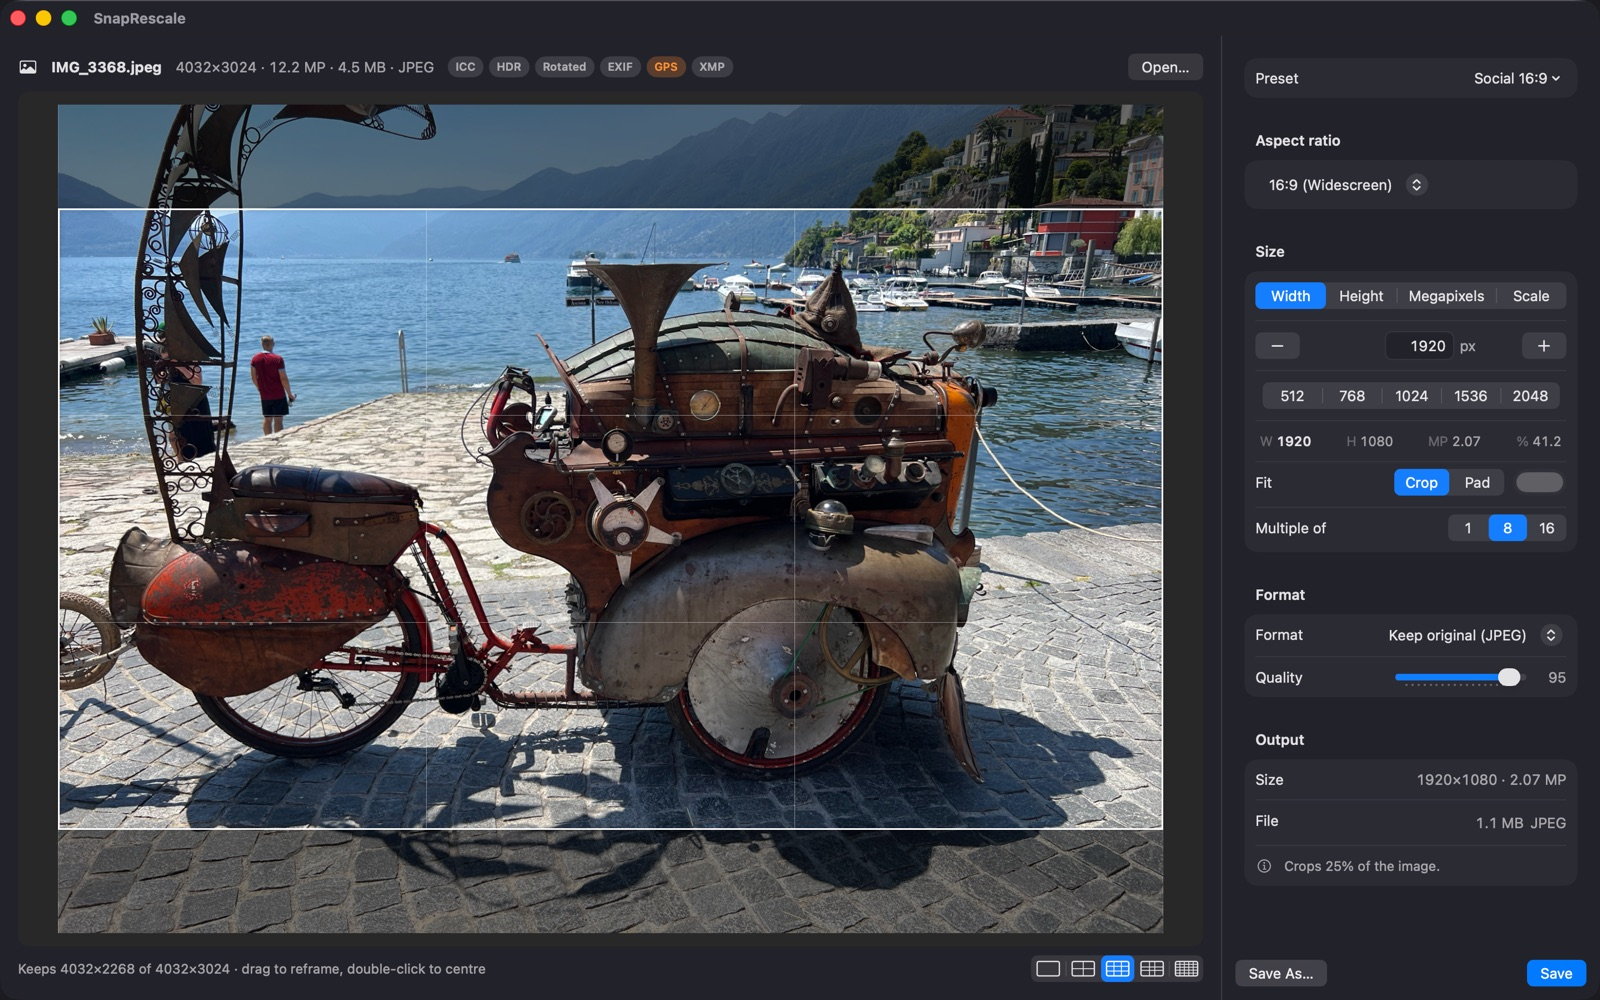
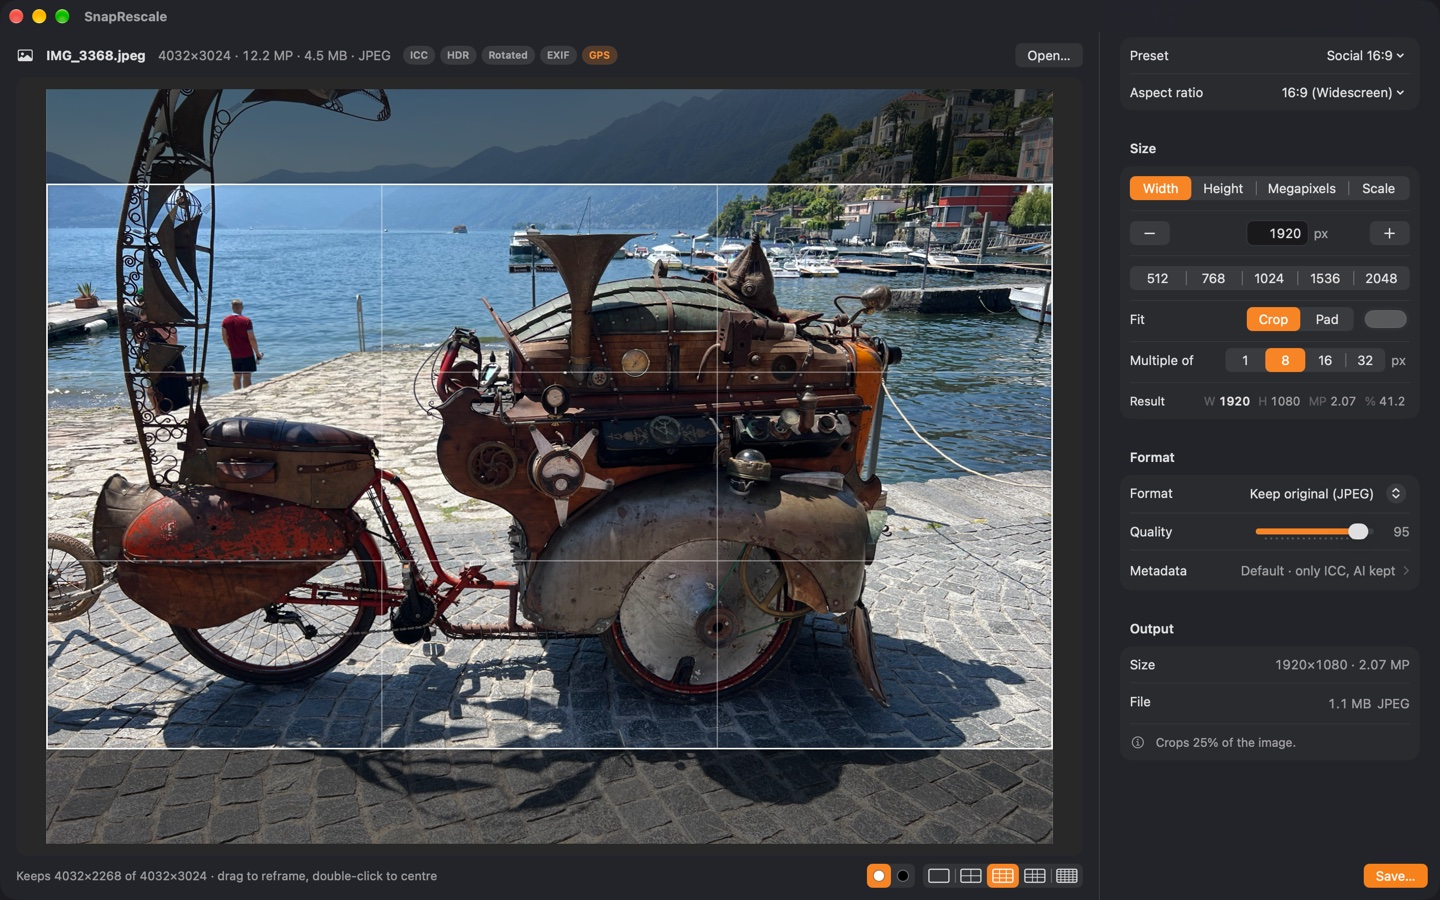
Release 1.2 (4): README, changelog, store copy, privacy and status (#64)
README for 1.2 (multiples 8/16/32, metadata step, auto-quit only when
launched for an image, new screenshot, v1.2-build4 DMG). CHANGELOG
section 1.2 (build 4). PRIVACY says saved files carry the metadata kept.
APP-STORE review notes, screenshot set and accessibility step;
RELEASING checksum step, release order and the 2026-10-20 VM row
(all 11 checks pass on 1.2 (4)). ROADMAP, PRD and the Feedback draft
mark 1.2 released.

diff --git a/README.md b/README.md
@@ -1,6 +1,6 @@
 # SnapRescale
 
-**Resize to any ratio, snapped to multiples of 8 and 16.**
+**Resize to any ratio, snapped to multiples of 8, 16 or 32.**
 
 SnapRescale is a free, native macOS utility for resizing one image to the
 dimensions your workflow needs. Choose an aspect ratio and set width, height,
@@ -8,8 +8,10 @@ megapixels or scale. Snap dimensions to multiples of 8, 16 or 32 for AI image
 workflows, or use ordinary pixel dimensions.
 
 Preview the crop before saving, drag to adjust the framing, or pad with a
-chosen colour. Save useful settings as presets. Images are processed locally,
-without accounts or uploads.
+chosen colour. Inspect the image's metadata and choose what stays with the
+resized file; an embedded ComfyUI workflow survives a PNG-to-PNG resize. Save
+useful settings as presets. Images are processed locally, without accounts or
+uploads.
 
 ![SnapRescale with a 16:9 crop preview](docs/screenshots/crop-16x9.jpg)
 
@@ -17,7 +19,7 @@ without accounts or uploads.
 
 - macOS 26 or later, Apple Silicon (that is what has been built and tested).
 - **Mac App Store:** [Download SnapRescale](https://apps.apple.com/app/snaprescale/id6809174592).
-- **Direct download:** [Download SnapRescale 1.1 (DMG)](https://github.com/phierru/SnapRescale/releases/download/v1.1-build3/SnapRescale-1.1.dmg),
+- **Direct download:** [Download SnapRescale 1.2 (DMG)](https://github.com/phierru/SnapRescale/releases/download/v1.2-build4/SnapRescale-1.2.dmg),
   signed with Developer ID and notarised by Apple. Open the DMG and drag
   SnapRescale to Applications. See [GitHub releases](https://github.com/phierru/SnapRescale/releases)
   for release notes and checksums.
@@ -26,35 +28,49 @@ without accounts or uploads.
 ## Using it
 
 1. **Open an image.** Right-click it in Finder → *Open With → SnapRescale* (or
-   *Services → Resize with SnapRescale*). Opened that way, the app quits after
-   saving. Or open SnapRescale from Applications, then drop an image on the
-   window or press ⌘O; it then stays open.
+   *Services → Resize with SnapRescale*). If that launches SnapRescale, it quits
+   after saving and the button reads *Save & Quit…* (*Save & Quit* when saving
+   without asking). Or open SnapRescale from
+   Applications, then drop an image on the window or press ⌘O; it then stays
+   open.
 2. **Choose the size.** Pick an aspect ratio — *Original* keeps the image's own
    ratio; the picker also offers 1:1, 2:3, 3:2, 3:4, 4:3, 9:16, 16:9 and 21:9 —
    and one number: width, height, megapixels or scale. The other three follow.
-   *Multiple of 8/16* rounds onto that lattice and says what it changed;
+   *Multiple of 8, 16 or 32* rounds onto that lattice and says what it changed;
    *Multiple of 1* means no snapping. The preview shows the crop; drag the frame
    to reframe, or switch to *Pad*.
-3. **Save.** ⌘S opens the save panel, pre-filled with `name_WxH`. Settings can
+3. **Choose the metadata.** Click a badge next to the file name, or the
+   *Metadata* row in the sidebar (⌥⌘I), to open the inspector. EXIF, GPS,
+   IPTC, XMP and the AI workflow each have a *Keep · Strip* switch, and the
+   colour profile has *Keep · sRGB · Strip*; the default strips EXIF, GPS,
+   IPTC and XMP and keeps the colour profile and the AI workflow.
+4. **Save.** ⌘S opens the save panel, pre-filled with `name_WxH`. Settings can
    make ⌘S save beside the original without asking (it asks for each folder
    once). The file size shown before saving is a real encode.
 
 Brief in-app help is on ⌘?; the same text is in [docs/HELP.md](docs/HELP.md).
 Version history is in the [changelog](CHANGELOG.md).
 
-## What it does and doesn't do (1.0)
+## What it does and doesn't do (1.2)
 
 - One image at a time. Output formats: JPEG, PNG, HEIC, TIFF, or the source's
   own format when it is one of those.
-- **Output is 8-bit sRGB with metadata stripped.** EXIF, GPS, XMP and AI
-  workflow data are not carried over — a resized ComfyUI PNG no longer reopens
-  its generation graph. Orientation is baked in. The badges next to the file
-  name show what was *detected* in the source, not what will be preserved.
-- Animated images use their first frame.
-- Presets store size and export settings as plain JSON you can edit and share.
-- Planned next, in order: metadata keep/strip controls and workflow
-  carry-over, multiple windows, WebP and encoder options. See
-  [docs/ROADMAP.md](docs/ROADMAP.md).
+- **Metadata is kept or stripped per section, never edited.** By default EXIF,
+  GPS, IPTC and XMP are stripped, and the colour profile and AI workflow data
+  are kept, prompts included: review them before sharing. A resized ComfyUI
+  PNG saved as PNG still opens its workflow in ComfyUI; A1111-style parameters
+  travel in the EXIF user comment of JPEG, HEIC and TIFF. C2PA content
+  credentials are always stripped, and the embedded EXIF thumbnail is never
+  written. Metadata over the per-image read limits is left out, and the
+  inspector says so. Copy and export work whatever the switches say.
+- **Colour:** the source's profile is kept, converted to sRGB or left out.
+  Sources deeper than 8 bits give 16-bit PNG and TIFF, and 10-bit HEIC. CMYK
+  sources are converted to sRGB, and HDR gain maps are not written.
+- Orientation is baked into the pixels. Animated images use their first frame.
+- Presets store size, export and metadata settings as plain JSON you can edit
+  and share.
+- Planned next: WebP and per-format encoder options, then multiple windows.
+  See [docs/ROADMAP.md](docs/ROADMAP.md) and the [changelog](CHANGELOG.md).
 
 ## Building
 
@@ -79,8 +95,8 @@ fallback. Release and App Store steps are in [docs/RELEASING.md](docs/RELEASING.
 
 ### Layout
 
-- `RescaleKit/` — the engine: solver, image pipeline, metadata detection,
-  presets. No UI. A throwaway `rescale` CLI exercises it (`--write` writes a
+- `RescaleKit/` — the engine: solver, image pipeline, metadata reading and
+  writing, presets. No UI. A throwaway `rescale` CLI exercises it (`--write` writes a
   file; without it, it only prints the solve).
 - `SnapRescale/` — the SwiftUI app.
 - `prototype/` — the Python model of the solver the Swift port is checked

diff --git a/docs/APP-STORE.md b/docs/APP-STORE.md
@@ -1,7 +1,7 @@
-# App Store listing — draft
+# App Store listing
 
-Everything App Store Connect asks for, ready to paste. This is the draft of
-record for the next release, version 1.2: the
+Everything App Store Connect asks for, ready to paste. This is the copy
+submitted for version 1.2: the
 [copy proposal of 2026-10-03](app-store-release-copy-2026-10-03.md) with the
 owner's corrections (#63). The text live for 1.1, which this submission
 replaces, is recorded at the end.
@@ -124,8 +124,9 @@ launched from Applications, it stays open. The app is sandboxed; saving goes
 through the save panel by default. The "save next to the original without
 asking" setting asks for folder access once per folder via the standard open
 panel (security-scoped bookmark); an allowed folder also covers the folders
-inside it. The metadata inspector's Export… and Export
-All… also write only through the save panel.
+inside it. The metadata inspector (⌥⌘I) also exports only through the save
+panel: Export All… in its ⋯ menu, and the Export… (share) icon on the AI
+workflow section of an image that carries one.
 
 ## Screenshots
 
@@ -133,18 +134,29 @@ Required sizes for Mac: 1280×800, 1440×900, 2560×1600 or 2880×1800, opaque.
 Recipe (Retina display, so 1440×900 points capture at 2880×1800 pixels):
 
 ```sh
-open -n -a build/xcode/SnapRescale.app --args --window 1440x900 --preset "Social 16:9"
-sleep 4; open -a build/xcode/SnapRescale.app photo.jpg      # opened after launch → stays open, "Save…" (not "Save & Quit…")
-# add --inspector to the first line for the shots with the metadata inspector open
+open -n -a build/xcode/SnapRescale.app --args -ApplePersistenceIgnoreState YES \
+  -saveNextToOriginalWithoutAsking NO --window 1440x900 <shot flags>
+sleep 4.5; open -a build/xcode/SnapRescale.app photo.jpg   # opened after launch → stays open, "Save…" (not "Save & Quit…")
 screencapture -l<window id> -x -o raw.png                    # window id from CGWindowList (owner SnapRescale)
 swiftc -O -o flatten Scripts/flatten-screenshot.swift && ./flatten raw.png shot.png 2880 1800   # opaque, centred
 ```
 
-Which shots, and whether they carry captions, is decided at release (#64).
-Start from the five-shot brief in the
-[storefront review](storefront-review-2026-10-03.md#proposed-screenshot-sequence),
-with the corrections in its Owner comment; #64 names the photos for the EXIF
-and GPS, IPTC and XMP, and AI workflow shots.
+The `-key value` arguments override a setting for one launch and write
+nothing; `-compositionGrid thirds -compositionGridDark NO -defaultMultiple 8
+-defaultQuality 0.95` pin the grid and defaults whatever the stored settings
+say. Move the pointer off the window before capturing.
+
+The 1.2 set (owner decision 2026-10-20: plain window captures, no captions;
+dark appearance):
+
+| # | Photo | Flags | In the UI |
+|---|---|---|---|
+| 1 | `IMG_3368.jpeg` (Ascona) | `--preset "Social 16:9"` | — |
+| 2 | `IMG_2946.jpeg` (real GPS, accepted) | `--inspector` | — |
+| 3 | Replicate PNG (IPTC, XMP, C2PA) | `--inspector --scale 50` | open IPTC and XMP *More* |
+| 4 | `ComfyUI_00006_.png` | `--inspector --height 512 --multiple 16` | — |
+| 5 | `IMG_3368.jpeg` | `--aspect 16:9 --width 1920 --multiple 8 --fit pad` | pad colour #2B5C66 |
+| 6 | Replicate PNG | `--scale 50` | Format HEIC, Quality 80 |
 
 ## Status
 
@@ -152,7 +164,8 @@ and GPS, IPTC and XMP, and AI workflow shots.
 commit 110e688); 1.0 approved, Ready for Distribution. 1.1 (3) uploaded 2026-09-28
 (tag v1.1-build3). The live 1.1 listing differs from what this file held at the
 time (its subtitle and description were never in it); it is recorded below as
-captured on 2026-10-03. The fields above are the draft for 1.2, not uploaded.
+captured on 2026-10-03. 1.2 (4) uploaded 2026-10-20 (tag v1.2-build4) with the
+fields above and six plain window captures (dark appearance).
 This file is not a live view of App Store Connect.
 
 ## Checklist for the next build
@@ -161,6 +174,11 @@ This file is not a live view of App Store Connect.
 - [ ] `UPLOAD=1 Scripts/appstore.sh` (archives, exports and uploads through Xcode's account).
 - [ ] Select the build on the version page; update "What's New".
 - [ ] Keep the privacy answer "Data not collected" and the policy URL current.
+- [ ] Accessibility Nutrition Labels (Mac): answer from the evaluation of the
+      common tasks (open, size, reframe, inspect metadata, change retention,
+      save, settings), declaring only features every common task passed at
+      runtime. Captions and Audio Descriptions do not apply. Re-evaluate on
+      every update.
 
 ## Live listing (1.1)
 

diff --git a/docs/ROADMAP.md b/docs/ROADMAP.md
@@ -3,42 +3,42 @@
 Everything not in the current milestone lives here. The PRD (`PRD.md`) holds the
 requirements; this file holds the order. Dates are decisions, not promises.
 
-**Current milestone: the Metadata release, 1.2.** Implemented and merged, not
-yet released. The release is gated on the sandbox checks in
-[`RELEASING.md`](RELEASING.md): the nine of 2026-10-03 passed on fa50d19, and
-the checks added or changed for the fixes of #65 (2, 4, 10, 11) passed on
-7096d4c on 2026-10-04. Every check is repeated on the release build before
-upload. M5, which shipped 1.0 and 1.1, is kept at the end as history.
+**Released: the Metadata release, 1.2 (4).** Uploaded to the App Store on
+2026-10-20, and published the same day as a direct download (tag
+`v1.2-build4`). The sandbox checks in [`RELEASING.md`](RELEASING.md) passed on
+the release build before upload. Next: v1.3, formats and encoding. M5, which
+shipped 1.0 and 1.1, is kept at the end as history.
 
 ## Deferred from v1 (2026-09-06)
 
 These were in the v1 cut and were moved out so M5 could start. 1.1 shipped
 (2026-09-28) without them. The two metadata items — the §10 switches and
 "keep AI workflow" — were redesigned on 2026-09-30 and are now the **Metadata**
-milestone below (implemented and merged, not released); what remains here is
+milestone below (released in 1.2); what remains here is
 still open.
 
 | Item | PRD | Notes |
 |---|---|---|
 | Resampling choice: area for downscale, Lanczos for upscale, nearest for pixel art | §1, ComfyUI review | CoreGraphics high-quality interpolation today; Core Image filters are the likely route. |
 
-## Metadata (1.2) — merged, not released (decided 2026-09-30)
+## Metadata (1.2) — released 2026-10-20 (decided 2026-09-30)
 
 PRD §10: a metadata inspector in the window's trailing panel, opened from the
 badges. Keep / strip per section, copy / export, **no editing**. Default policy:
 strip EXIF, GPS, IPTC and XMP, preserve ICC, keep the AI workflow (changed from
 "keep everything except GPS" after trying the app).
 
-**Status: implemented and merged — not released.** All four waves are merged
-(PRs #23, #24, #27, #28), with the fixes from the reviews of 2026-09-30 and
-2026-10-03 (#31, #46), a follow-up (#34) and the documentation and storefront
-reviews of 2026-10-03 (#65). The release, 1.2, is gated on the sandbox checks
-in `RELEASING.md` (the nine of 2026-10-03 passed on fa50d19, those added or
-changed for #65 on 7096d4c on 2026-10-04), every one repeated on the release
-build before upload. 1.1, the version on the store, still writes 8-bit sRGB
-with everything stripped.
-The owner has checked that a resized ComfyUI PNG dropped into ComfyUI opens
-its workflow; what has not been checked is under *Open verification*.
+**Status: released as 1.2 (4)** (tag `v1.2-build4`, App Store upload
+2026-10-20). All four waves are merged (PRs #23, #24, #27, #28), with the
+fixes from the reviews of 2026-09-30 and 2026-10-03 (#31, #46), a follow-up
+(#34) and the documentation and storefront reviews of 2026-10-03 (#65). Every
+sandbox check in `RELEASING.md` passed on the release build on 2026-10-20.
+Until the App Store approves 1.2, the store still has 1.1, which writes 8-bit
+sRGB with everything stripped.
+A resized ComfyUI PNG opens its workflow in ComfyUI: checked by the owner,
+and again on 2026-10-20 on the release code in ComfyUI's frontend (the same
+11 nodes and 12 links as the source). What has not been checked is under
+*Open verification*.
 
 GitHub milestone **Metadata**, tracking issue #21. The items were cut so
 that each wave could be worked by separate agents in parallel; the few places
@@ -138,8 +138,13 @@ Metadata milestone — not yet exercised by running the app:
 - The HDR note, on a real gain-map photo.
 - The C2PA section, with a really signed JPEG and PNG.
 - ~~Export… and Export All… in a sandboxed release build~~: checked on
-  2026-10-03 with the sandbox checks in `RELEASING.md`, which are repeated on
-  the release build before upload.
+  2026-10-03 with the sandbox checks in `RELEASING.md`, and again on the 1.2 (4)
+  release build on 2026-10-20.
+- PNG workflow chunks follow `IDAT`. ComfyUI's frontend reads them, and so
+  does Pillow after `load()`, with the JSON equal to the source's (checked
+  2026-10-20). A reader that stops at `IDAT`, such as Pillow's `Image.open`
+  without `load()`, does not see them; splicing them before `IDAT` is
+  considered in #65, not scheduled.
 
 ## M5 — ship it (history)
 

diff --git a/docs/RELEASING.md b/docs/RELEASING.md
@@ -8,7 +8,12 @@ and Xcode signed in to that Apple ID.
 ```sh
 ./Scripts/release.sh                          # hardened Release build, Developer ID signed, DMG in build/release
 NOTARY_PROFILE=snaprescale ./Scripts/release.sh   # + notarise and staple
+(cd build/release && shasum -a 256 SnapRescale-<version>.dmg > SnapRescale-<version>.dmg.sha256)
 ```
+
+Publish the GitHub release under the tag `v<version>-build<build>` with the
+DMG, unrenamed, and its `.sha256`: the README links that exact asset name.
+Push the tag and the release before the README change reaches `main`.
 
 Without a Developer ID Application certificate the script signs ad-hoc; that
 DMG is for local testing only and Gatekeeper will refuse it elsewhere. One-time
@@ -75,3 +80,4 @@ images. After each step no staged file may be left: nothing named
 |---|---|---|---|
 | 2026-10-03 | fa50d19, Release 1.1 (3), ad-hoc | 26.6.2 (25G83), VM | Pass: all 9, plus relaunch legs for 4, 5 and 8, and `--save` twice gives `_2`. Open: error alerts name the staged `.tmp` instead of the file; a folder renamed while its image is open fails the save until the image is reopened |
 | 2026-10-04 | 7096d4c, Release 1.1 (3), ad-hoc | 26.6.2 (25G83), VM | Pass, the checks added or changed for #65: 2 to a read-only volume (Save As and Export All name the file), 4 (asks once, then `_2`; nothing staged left), 10 (Settings, Help and About closed first, then the main window: quits) and 11 (reopened from the new place, the image saves). A folder never allowed still gets the Allow panel, not the alert. The other checks were not repeated |
+| 2026-10-20 | e7bd66c, Release 1.2 (4), ad-hoc | 26.6.2 (25G83), VM | Pass: all 11, plus relaunch legs for 3, 4, 5 and 8, and `--save` twice gives `_2`; nothing staged left after any step. To the read-only volume, Save As, Export… and Export All… name the file; a full disk image gives one out-of-space alert naming the file, with no Allow panel, before and after relaunch. Review notes match the build (Open With → Save & Quit… and quits; from Applications → Save… and stays open); Services and a Dock drop not driven. Open: a path passed as a bare argument after `--save` reports "not an image" under the sandbox (scripting only) |

diff --git a/docs/apple-feedback-macos27-form-width.md b/docs/apple-feedback-macos27-form-width.md
@@ -41,9 +41,9 @@ After step 3, 4 or 5 the panel's Form is laid out 430 pt wide: its rows are cut 
 - Pinning every row to `.frame(width: 280)` still gives 430; the value is not derived from content.
 - A drag that only hovers over the window and is cancelled does not trigger it.
 
-## Workaround we ship (SnapRescale 1.1, `Deferred.swift`, `FileDrop.swift`)
+## Workaround we ship (SnapRescale 1.1 and later, `Deferred.swift`, `FileDrop.swift`)
 
 - Discrete controls write through `deferred` (`Binding.deferred` for a binding): a `RunLoop.main.perform(inModes: [.default])` block followed by a `Task { @MainActor in … }` hop. That covers the sidebar's buttons (the − / + steppers, Save), pickers, size field and colour well, double-click to centre, the File and View menu commands, the open panel, `application(_:open:)` and the Settings controls whose state the sidebar shows. Both hops are needed: the main queue also drains while a drag session or a modal panel runs the run loop in its tracking mode, which still counts as inside the event, and the run-loop block itself runs while AppKit is still settling the window (a panel closing, a drag ending). The main-queue hop alone was not enough right after the open panel closes.
 - Continuous interactions, the crop drag (`DragGesture`) and both Quality sliders, write through `deferredLive`: the next main-queue turn (`DispatchQueue.main.async`). While the mouse is held the run loop stays in its event-tracking mode, where `deferred` would hold every update until the release; the main-queue hop still runs during tracking, and for these it is enough.
 - Drops no longer use `.dropDestination`. An AppKit `NSView` overlay (registered for file URLs, `hitTest` returning `nil`) takes the drop and loads the file in `draggingEnded(_:)`, through `deferred`. Without SwiftUI's drop animation the session ends at once, and the change is laid out at 340.
-- The metadata inspector (1.2, not yet released) does the same: showing and hiding it, its sections, switches, Copy feedback and the Export panel all go through `deferred`.
+- The metadata inspector (1.2) does the same: showing and hiding it, its sections, switches, Copy feedback and the Export panel all go through `deferred`.

diff --git a/CHANGELOG.md b/CHANGELOG.md
@@ -3,9 +3,9 @@
 Notable changes to SnapRescale, newest first. Dates below are App Store upload
 dates recorded in the repository, not dates of public availability.
 
-## Unreleased
+## 1.2 (build 4) — 2026-10-20
 
-The Metadata milestone: implemented, not yet released.
+The Metadata release.
 
 ### Added
 
@@ -33,6 +33,9 @@ The Metadata milestone: implemented, not yet released.
   one JSON file; it is not a lossless archive of the original metadata.
 - Presets carry a metadata policy (`metadata` in the JSON; optional, so older
   presets still load).
+- **Metadata read limits** for every format: PNG text, raw copies,
+  decompression work and XMP count against a per-image limit; anything over
+  it is left out and named in the inspector.
 
 ### Changed
 
@@ -46,7 +49,7 @@ The Metadata milestone: implemented, not yet released.
   are still converted to sRGB.
 - The ICC badge appears only when the file embeds a profile; an assumed sRGB
   is no longer shown as one. This holds for the formats whose structure is
-  checked: JPEG, PNG, TIFF, WebP, HEIC, HEIF, AVIF, and now GIF and BMP. Other
+  checked: JPEG, PNG, TIFF, WebP, HEIC, HEIF, AVIF, GIF and BMP. Other
   formats (PSD, RAW, JPEG XL, OpenEXR, …) show it whenever macOS names a
   profile.
 - The app's category is Graphics & Design, as on the App Store.
@@ -85,15 +88,14 @@ The Metadata milestone: implemented, not yet released.
 - ⌘W closes the window: File ▸ Close was missing.
 - A preset whose quality is not a whole percent, or whose scale does not
   survive rounding, no longer switches the Preset menu to Custom by itself.
-- Metadata limits hold for every format: PNG text labels, raw copies and
-  decompression work, and the XMP of TIFF, WebP and JPEG count against the
-  per-image limit; anything over it is left out and named in the inspector.
 
 ### Known limits
 
 - Stripping the colour profile is fully clean only in TIFF and JPEG: a PNG
   keeps a one-byte sRGB marker and HEIC tags sRGB.
 - HDR gain maps are not written. RAW, PSD and GIF sources carry no XMP over.
+
+[Source tag](https://github.com/phierru/SnapRescale/tree/v1.2-build4)
 
 ## 1.1 (build 3) — 2026-09-28
 

diff --git a/docs/PRIVACY.md b/docs/PRIVACY.md
@@ -8,7 +8,13 @@ SnapRescale does not collect or transmit your images or any personal data.
   them. All processing happens on your Mac.
 - If you turn on "Save next to the original without asking", the app asks for
   permission to a folder once and keeps that permission locally as a
-  security-scoped bookmark. Settings ▸ Forget All removes these.
+  security-scoped bookmark. Settings ▸ Forget All (shown while that setting
+  is on) removes these; turning the setting off does not.
+- Saved images carry the metadata you choose to keep. By default, EXIF
+  camera details, GPS, IPTC and XMP are stripped, and supported colour
+  profiles and AI workflow data (which can include prompts) are kept where the
+  output format can carry them. Content Credentials (C2PA) are always
+  removed. Check the metadata inspector before sharing a saved file.
 - Preferences and presets are stored locally in the app's own container.
 - Links in About, Help and Settings open your browser; those sites have their
   own policies.

diff --git a/docs/PRD.md b/docs/PRD.md
@@ -1,6 +1,6 @@
 # SnapRescale — Product Requirements Document
 
-**Status:** Draft v0.15 · 2026-10-04 · current milestone **Metadata (1.2)**, merged, not released · deferred work in [`ROADMAP.md`](ROADMAP.md) · **v1 scope: one image** · M0 solver shipped in `RescaleKit/`
+**Status:** Draft v0.15 · 2026-10-04 · **Metadata (1.2)** released 2026-10-20 · next milestone v1.3, formats and encoding · deferred work in [`ROADMAP.md`](ROADMAP.md) · **v1 scope: one image** · M0 solver shipped in `RescaleKit/`
 **Name:** SnapRescale — *Resize to any ratio, snapped to multiples of 8, 16 and 32* · bundle ID `com.phierru.SnapRescale`
 **Platform:** macOS 26+ (Apple Silicon), Swift 6 / SwiftUI
 
